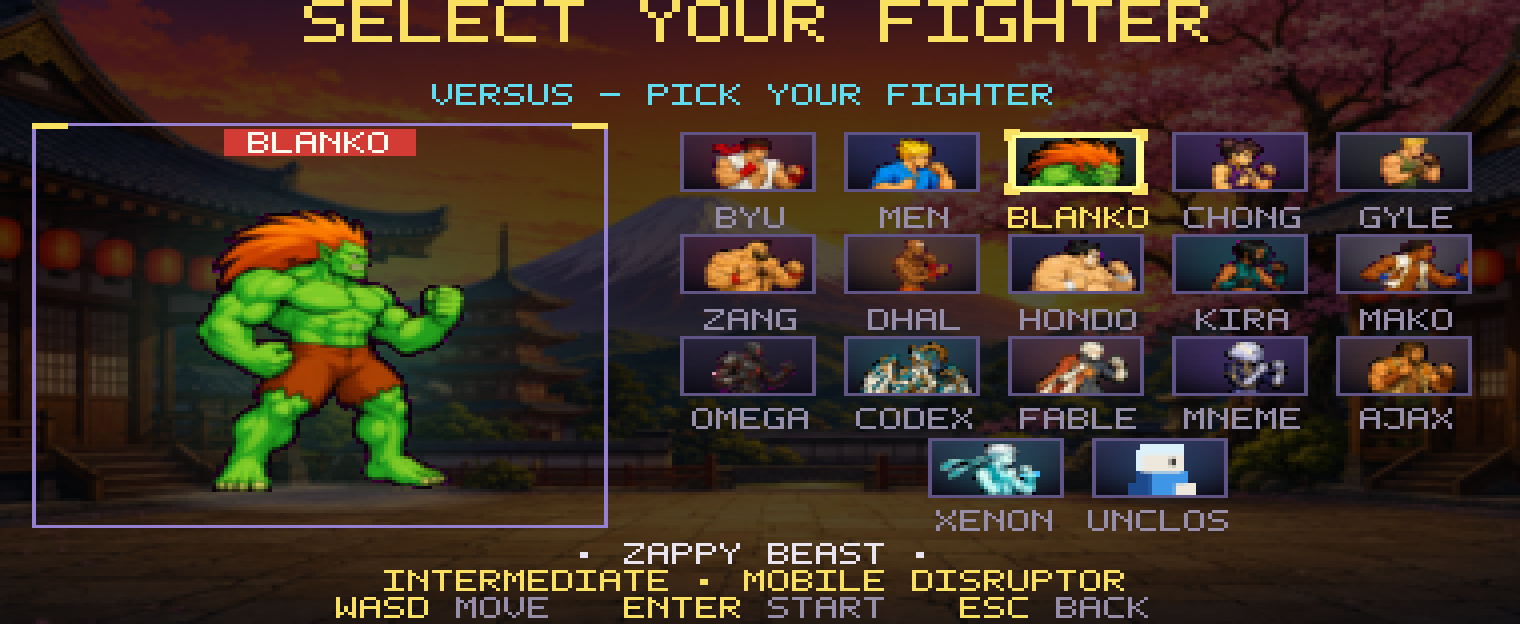
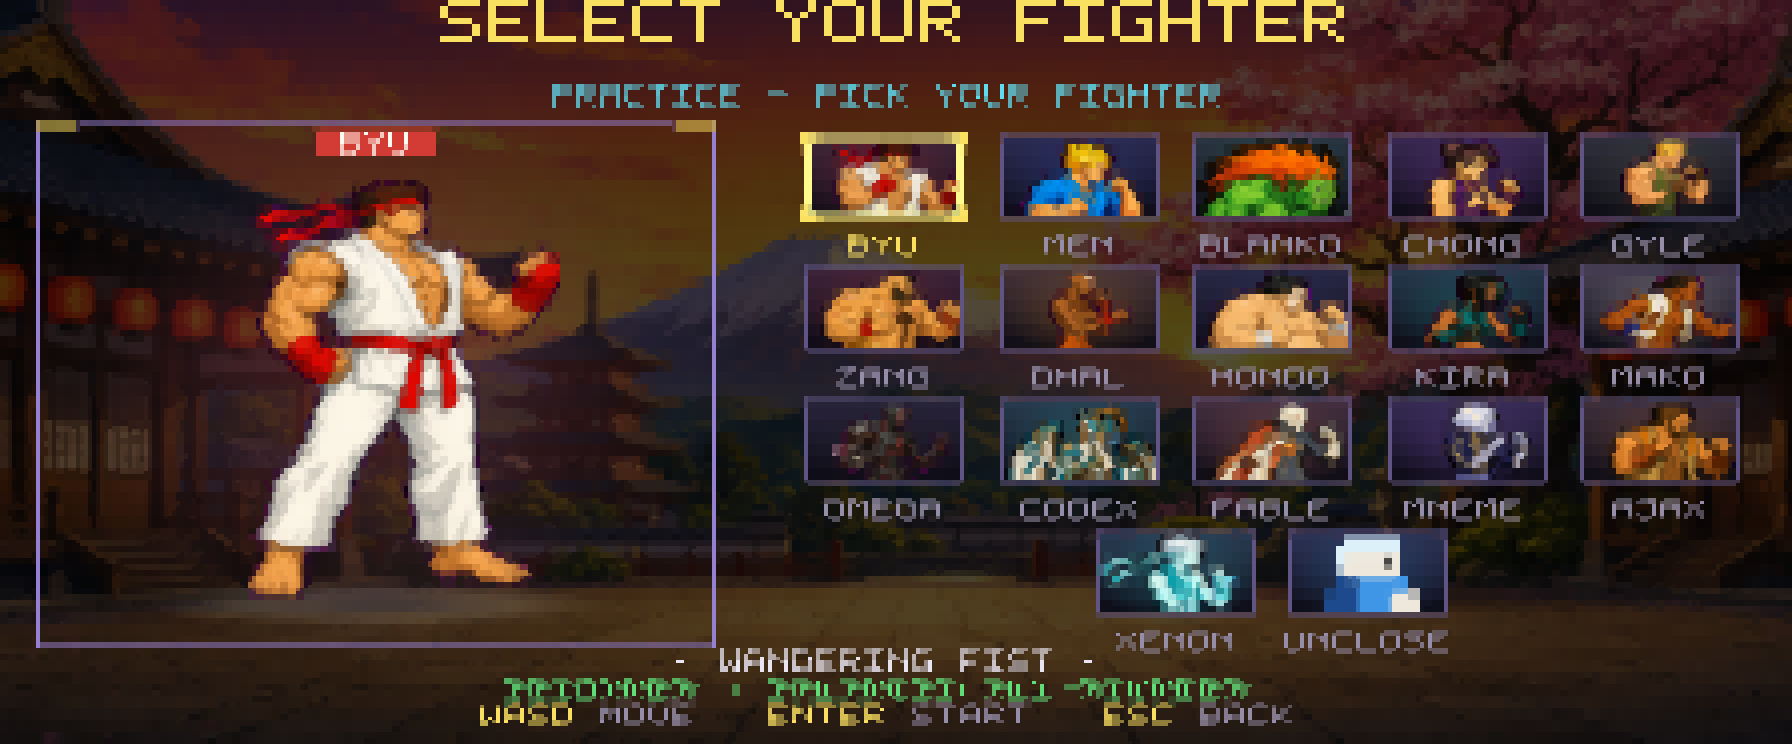
Triple the terminal safety cap to 900x360; regenerate README screenshots
New src/tools/screenshots.ts: boots the SSH server in-process, drives one
fresh client session per screen over real ssh2 PTYs (224x62), reconstructs
the captured ANSI with a tiny astral-safe terminal emulator (cursor moves,
chunk-boundary escape carry), forces a resize full-redraw before capture,
and rasterizes cells to PNG — octant/quadrant glyphs decode to their exact
pixel patterns via OCTANT_CHARS, text cells use the game's own 3x5 font.
All five docs/screenshots/*.png are regenerated from live v1.0.0 gameplay
by one command.

diff --git a/src/tools/screenshots.ts b/src/tools/screenshots.ts
@@ -1,0 +1,220 @@
+// Regenerate the README screenshots from a REAL game session: boots the SSH
+// server in-process (fresh temp DB), drives one client through the screens,
+// reconstructs each captured ANSI frame with a tiny terminal emulator, and
+// rasterizes cells to PNG — octant glyphs decode to their exact 2x4 pixel
+// patterns via OCTANT_CHARS, text cells draw with the game's own 3x5 font.
+//   tsx src/tools/screenshots.ts        -> docs/screenshots/*.png
+process.env.SF_DB = '/tmp/sf-screenshot.db';
+process.env.SF_DEBUG = '0';
+import ssh2 from 'ssh2';
+import { execFileSync } from 'child_process';
+import { mkdtempSync, unlinkSync, writeFileSync } from 'fs';
+import { tmpdir } from 'os';
+import { join, resolve, dirname } from 'path';
+import { fileURLToPath } from 'url';
+import { OCTANT_CHARS } from '../octant/octant-chars.js';
+import { FONT3X5 } from '../render/font.js';
+
+const __dirname = dirname(fileURLToPath(import.meta.url));
+const OUT_DIR = resolve(__dirname, '../../docs/screenshots');
+const COLS = 224, ROWS = 62;          // 8x12 px cells -> 1792x744; roomy above the 144x50 minimum
+const CELL_W = 8, CELL_H = 12;
+const PORT = 22997;
+
+try { unlinkSync(process.env.SF_DB!); } catch { /* fresh */ }
+const { startServer } = await import('../net/ssh-server.js');
+const server = startServer(PORT, '127.0.0.1', 'keys/host.key');
+
+// ---- tiny terminal emulator (diff-verify's applyAnsi, astral-safe) ----
+type TC = { ch: string; fg: [number, number, number]; bg: [number, number, number] };
+const blank = (): TC => ({ ch: ' ', fg: [0, 0, 0], bg: [0, 0, 0] });
+const grid: TC[] = new Array(COLS * ROWS).fill(0).map(blank);
+let cx = 0, cy = 0;
+let fg: [number, number, number] = [200, 200, 200], bg: [number, number, number] = [0, 0, 0];
+
+let carry = '';   // escape sequence split across SSH data chunks
+function applyAnsi(chunk: string): void {
+  const ansi = carry + chunk;
+  carry = '';
+  const cps = [...ansi];
+  let i = 0;
+  while (i < cps.length) {
+    const ch = cps[i]!;
+    if (ch === '\x1b' && i === cps.length - 1) { carry = '\x1b'; return; }
+    if (ch === '\x1b' && cps[i + 1] === '[') {
+      let j = i + 2, params = '';
+      while (j < cps.length && !/[A-Za-z]/.test(cps[j]!)) { params += cps[j]; j++; }
+      if (j >= cps.length) { carry = cps.slice(i).join(''); return; }
+      const fin = cps[j] ?? '';
+      const ps = params.split(';');
+      if (fin === 'H' || fin === 'f') { cy = (parseInt(ps[0] || '1', 10) || 1) - 1; cx = (parseInt(ps[1] || '1', 10) || 1) - 1; }
+      else if (fin === 'A') { cy -= parseInt(ps[0] || '1', 10) || 1; }
+      else if (fin === 'B') { cy += parseInt(ps[0] || '1', 10) || 1; }
+      else if (fin === 'C') { cx += parseInt(ps[0] || '1', 10) || 1; }
+      else if (fin === 'D') { cx -= parseInt(ps[0] || '1', 10) || 1; }
+      else if (fin === 'G') { cx = (parseInt(ps[0] || '1', 10) || 1) - 1; }
+      else if (fin === 'd') { cy = (parseInt(ps[0] || '1', 10) || 1) - 1; }
+      else if (fin === 'J') { for (let k = 0; k < grid.length; k++) grid[k] = blank(); }
+      else if (fin === 'K') { for (let x = cx; x < COLS; x++) grid[cy * COLS + x] = { ch: ' ', fg: [...fg], bg: [...bg] }; }
+      else if (fin === 'm') {
+        let k = 0;
+        while (k < ps.length) {
+          const p = ps[k];
+          if (p === '0' || p === '') { fg = [200, 200, 200]; bg = [0, 0, 0]; k++; }
+          else if (p === '38' && ps[k + 1] === '2') { fg = [+ps[k + 2]!, +ps[k + 3]!, +ps[k + 4]!]; k += 5; }
+          else if (p === '48' && ps[k + 1] === '2') { bg = [+ps[k + 2]!, +ps[k + 3]!, +ps[k + 4]!]; k += 5; }
+          else k++;
+        }
+      }
+      i = j + 1; continue;
+    }
+    if (ch === '\r') { cx = 0; i++; continue; }
+    if (ch === '\n') { cy = Math.min(ROWS - 1, cy + 1); i++; continue; }
+    if (ch === '\x1b') { i++; continue; } // lone escape (e.g. ?7l handled by [-branch)
+    if (cy >= 0 && cy < ROWS && cx >= 0 && cx < COLS) grid[cy * COLS + cx] = { ch, fg: [...fg], bg: [...bg] };
+    cx++; i++;
+  }
+}
+
+// ---- rasterizer ----
+const OCTANT_PATTERN = new Map<string, number>();
+for (let p = 0; p < OCTANT_CHARS.length; p++) {
+  const g = OCTANT_CHARS[p]!;
+  if (!OCTANT_PATTERN.has(g)) OCTANT_PATTERN.set(g, p);
+}
+
+function rasterize(name: string): void {
+  const W = COLS * CELL_W, H = ROWS * CELL_H;
+  const px = Buffer.alloc(W * H * 3);
+  const put = (x: number, y: number, c: [number, number, number]) => {
+    const o = (y * W + x) * 3; px[o] = c[0]; px[o + 1] = c[1]; px[o + 2] = c[2];
+  };
+  for (let r = 0; r < ROWS; r++) for (let c = 0; c < COLS; c++) {
+    const cell = grid[r * COLS + c]!;
+    const x0 = c * CELL_W, y0 = r * CELL_H;
+    for (let y = 0; y < CELL_H; y++) for (let x = 0; x < CELL_W; x++) put(x0 + x, y0 + y, cell.bg);
+    const pat = OCTANT_PATTERN.get(cell.ch);
+    if (pat !== undefined) {
+      // 2x4 sub-pixels, each CELL_W/2 x CELL_H/4 px
+      for (let sr = 0; sr < 4; sr++) for (let sc = 0; sc < 2; sc++) {
+        if (!(pat & (1 << (sr * 2 + sc)))) continue;
+        for (let y = 0; y < CELL_H / 4; y++) for (let x = 0; x < CELL_W / 2; x++)
+          put(x0 + sc * (CELL_W / 2) + x, y0 + sr * (CELL_H / 4) + y, cell.fg);
+      }
+    } else if (cell.ch !== ' ') {
+      const rows5 = FONT3X5[cell.ch.toUpperCase()];
+      if (rows5) {
+        // 3x5 glyph at 2x scale (6x10), centered in the 8x12 cell
+        for (let gy = 0; gy < 5; gy++) for (let gx = 0; gx < 3; gx++) {
+          if (rows5[gy]![gx] !== '#') continue;
+          for (let y = 0; y < 2; y++) for (let x = 0; x < 2; x++)
+            put(x0 + 1 + gx * 2 + x, y0 + 1 + gy * 2 + y, cell.fg);
+        }
+      } else {
+        for (let y = 3; y < CELL_H - 3; y++) for (let x = 2; x < CELL_W - 2; x++)
+          put(x0 + x, y0 + y, cell.fg);
+      }
+    }
+  }
+  const tmp = join(mkdtempSync(join(tmpdir(), 'sfshot-')), `${name}.ppm`);
+  writeFileSync(tmp, Buffer.concat([Buffer.from(`P6\n${W} ${H}\n255\n`), px]));
+  execFileSync('convert', [tmp, join(OUT_DIR, `${name}.png`)]);
+  console.log(`wrote docs/screenshots/${name}.png (${W}x${H})`);
+}
+
+// ---- drive real sessions: ONE FRESH CONNECTION PER SCREENSHOT ----
+// A fresh first-run session lands on the menu at index 0 every time, so each
+// capture navigates deterministically; waits scan only NEW transcript bytes.
+const sleep = (ms: number) => new Promise((r) => setTimeout(r, ms));
+
+interface Drive {
+  stream: any; conn: ssh2.Client;
+  waitFor(marker: string, timeout?: number): Promise<boolean>;
+}
+let shotN = 0;
+async function connectSession(feedEmulator = true): Promise<Drive> {
+  if (feedEmulator) { for (let k = 0; k < grid.length; k++) grid[k] = blank(); carry = ''; }
+  let transcript = '';
+  const conn = new ssh2.Client();
+  const stream = await new Promise<any>((res, rej) => {
+    conn.on('ready', () => conn.shell({ term: 'xterm-256color', cols: COLS, rows: ROWS }, (e, s) => {
+      if (e) return rej(e);
+      s.on('data', (d: Buffer) => { const t = d.toString('utf8'); transcript += t; if (feedEmulator) applyAnsi(t); });
+      res(s);
+    }));
+    conn.on('error', rej);
+    conn.connect({ host: '127.0.0.1', port: PORT, username: `shots${shotN}`, password: 'x', hostVerifier: () => true });
+  });
+  const waitFor = async (marker: string, timeout = 6000): Promise<boolean> => {
+    const from = transcript.length;
+    const deadline = Date.now() + timeout;
+    while (Date.now() < deadline) { if (transcript.slice(from).includes(marker)) return true; await sleep(50); }
+    return transcript.slice(from).includes(marker);
+  };
+  await sleep(400);
+  stream.write('\r'); await sleep(400);                 // accept first-run calibration
+  stream.write(`SHOT${shotN++}\r`);                     // fresh handle -> menu, index 0
+  await waitFor('MAIN MENU'); await sleep(500);
+  return { stream, conn, waitFor };
+}
+
+// Force a full recompose+redraw at the target size (diff renderers repaint
+// everything after a resize), so captures never inherit stale diff cells.
+async function settle(s: Drive): Promise<void> {
+  s.stream.setWindow(ROWS, COLS - 1, 0, 0); await sleep(350);
+  s.stream.setWindow(ROWS, COLS, 0, 0); await sleep(900);
+}
+
+{ // menu
+  const s = await connectSession();
+  await settle(s);
+  rasterize('menu');
+  s.conn.end();
+}
+{ // fighter select (PRACTICE = item 3: s,s,enter)
+  const s = await connectSession();
+  s.stream.write('s'); await sleep(150); s.stream.write('s'); await sleep(150); s.stream.write('\r');
+  await s.waitFor('PICK A FIGHTER', 5000); await sleep(500);
+  await settle(s);
+  rasterize('fighter-select');
+  s.conn.end();
+}
+{ // gameplay (practice fight; punch=w, kick=e, arrows move)
+  const s = await connectSession();
+  s.stream.write('s'); await sleep(150); s.stream.write('s'); await sleep(150); s.stream.write('\r');
+  await s.waitFor('PICK A FIGHTER', 5000); await sleep(300);
+  s.stream.write('\r'); await sleep(2500);
+  for (let i = 0; i < 8; i++) {
+    s.stream.write('\x1b[C'); await sleep(120);
+    s.stream.write(i % 2 ? 'e' : 'w'); await sleep(260);
+  }
+  await sleep(300);
+  await settle(s);
+  rasterize('gameplay');
+  s.conn.end();
+}
+{ // lounge (item 2: s,enter) — seed chat with a second live session first
+  const b = await connectSession(false);
+  b.stream.write('s'); await sleep(150); b.stream.write('\r');
+  await b.waitFor('/MENU ALSO EXITS', 5000); await sleep(300);
+  b.stream.write('my hurricane kick is unstoppable'); await sleep(400); b.stream.write('\r'); await sleep(1200);
+  const s = await connectSession();
+  s.stream.write('s'); await sleep(150); s.stream.write('\r');
+  await s.waitFor('/MENU ALSO EXITS', 5000); await sleep(300);
+  s.stream.write('bold words for someone in a terminal'); await sleep(300); s.stream.write('\r'); await sleep(900);
+  await settle(s);
+  rasterize('lounge');
+  s.conn.end(); b.conn.end();
+}
+{ // leaderboard (item 4: s,s,s,enter)
+  const s = await connectSession();
+  s.stream.write('s'); await sleep(150); s.stream.write('s'); await sleep(150); s.stream.write('s'); await sleep(150); s.stream.write('\r');
+  await sleep(900);
+  await settle(s);
+  rasterize('leaderboard');
+  s.conn.end();
+}
+
+server?.close?.();
+console.log('SCREENSHOTS_DONE');
+process.exit(0);

diff --git a/src/net/session.ts b/src/net/session.ts
@@ -36,7 +36,7 @@ const MAX_RENDER_HZ = 15; // visual refresh rate (sim/input stay at TICK_HZ = 30
 // Graphics sends a full image per changed frame (heavy over SSH), so animated
 // screens repaint at this lower rate. Static screens transmit nothing when idle.
 const GRAPHICS_HZ = Math.max(2, Math.min(15, parseInt(process.env.SF_KITTY_HZ ?? '6', 10) || 6));
-const MAX_COLS = 300, MAX_ROWS = 120;
+const MAX_COLS = 900, MAX_ROWS = 360;
 const clamp = (v: number, lo: number, hi: number) => Math.max(lo, Math.min(hi, v));
 const SF_UI_CELL = process.env.SF_UI === 'cell';   // dev escape hatch: crisp one-cell UI, no size gate
 

diff --git a/docs/ARCHITECTURE.md b/docs/ARCHITECTURE.md
@@ -48,7 +48,7 @@ With `SF_CAPS=1`, the `Terminal` probes the client on connect (kitty graphics? k
 - Stage motifs animate at 7.5 Hz.
 - Scene and sprite scaling use bounded caches.
 - A failed stream write marks the session output-blocked. Intermediate obsolete frames are discarded until `drain`, preventing slow clients from accumulating an unbounded animation history.
-- Terminal dimensions are capped at 300×120 for render work. The client may request a larger PTY, but the game never allocates beyond that safety boundary.
+- Terminal dimensions are capped at 900×360 for render work. The client may request a larger PTY, but the game never allocates beyond that safety boundary.
 
 ## Combat and moves
 

diff --git a/README.md b/README.md
@@ -203,7 +203,7 @@ The renderer preserves color and detail while limiting transport work:
 - changed-cell ANSI diffs instead of full-frame redraws
 - SSH zlib compression, slow-client backpressure, and obsolete-frame coalescing
 - bounded sprite and stage caches
-- a `300×120` terminal safety cap
+- a `900×360` terminal safety cap
 - native truecolor (`38;2` / `48;2`) unless the operator explicitly opts into indexed mode
 
 See [the architecture guide](docs/ARCHITECTURE.md) for the render and session pipelines.
